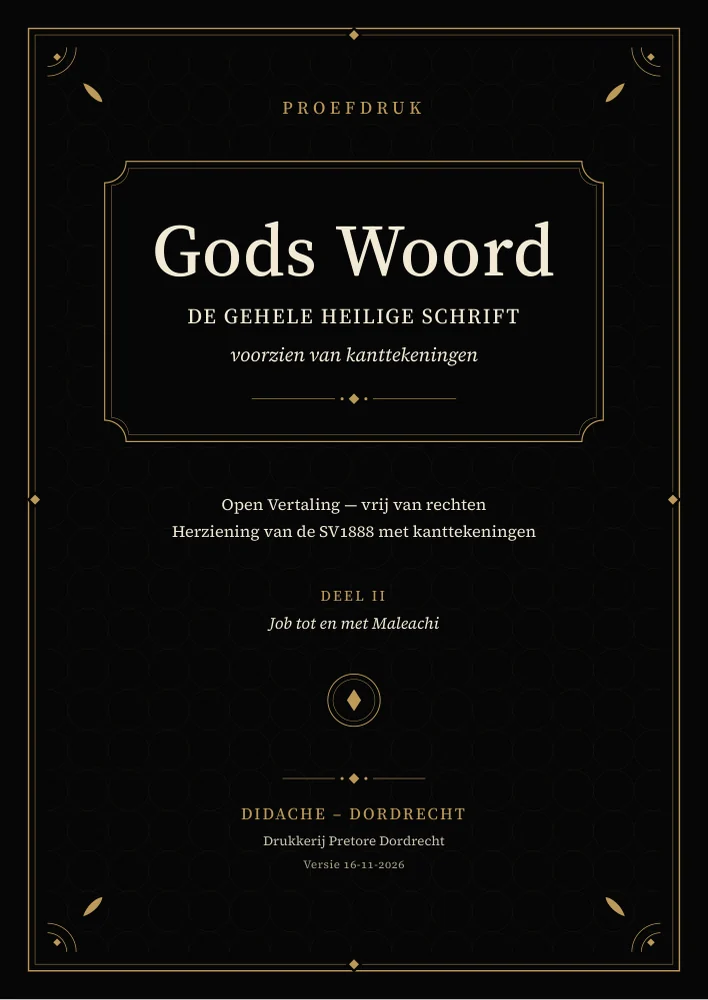
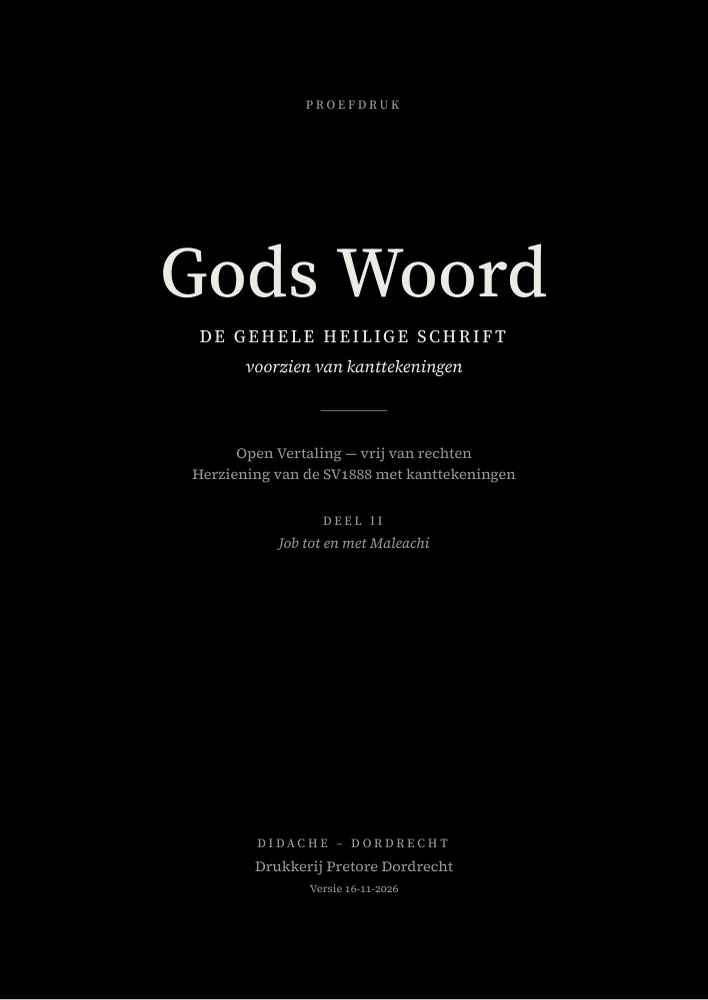
Voorblad minimalistisch en zwart, achterblad effen zwart
Geen blinddruk, lijstwerk, hoekversieringen of medaillon meer: een zwart
vlak met alleen de tekst en een korte haarlijn onder de titel. Het
achterblad is effen zwart. Nieuwe versielabels op PDF-links en
omslagbeelden.

diff --git a/kanttekeningen.html b/kanttekeningen.html
@@ -20,7 +20,7 @@
     <meta property="og:title" content="De Bijbel met kanttekeningen — Open Vertaling">
     <meta property="og:description" content="De Open Vertaling met de herziene kanttekeningen als PDF in drie delen, gezet met de noten onder de tekst op dezelfde bladzijde.">
     <meta property="og:url" content="https://openvertaling.nl/kanttekeningen.html">
-    <meta property="og:image" content="https://openvertaling.nl/images/kanttekeningen/deel-1.webp?v=20261116-proefdruk">
+    <meta property="og:image" content="https://openvertaling.nl/images/kanttekeningen/deel-1.webp?v=20261116-zwart">
     <meta name="twitter:card" content="summary_large_image">
 
     <link rel="stylesheet" href="css/fonts.css">
@@ -38,7 +38,7 @@
         <a class="kt-terug" href="downloads.html">← Alle downloads</a>
 
         <div class="kt-raster">
-            <img class="kt-omslag" id="kt-omslag" src="images/kanttekeningen/deel-1.webp?v=20261116-proefdruk" alt="Omslag van deel I" width="600" height="900">
+            <img class="kt-omslag" id="kt-omslag" src="images/kanttekeningen/deel-1.webp?v=20261116-zwart" alt="Omslag van deel I" width="600" height="900">
 
             <div class="kt-tekst">
                 <h1>De Bijbel met kanttekeningen</h1>
@@ -52,21 +52,21 @@
                         <div>
                             <input type="radio" name="deel" id="kt-deel-1" value="1" checked>
                             <label class="kt-kaart" for="kt-deel-1">
-                                <img src="images/kanttekeningen/deel-1.webp?v=20261116-proefdruk" alt="" width="46" height="69" decoding="async">
+                                <img src="images/kanttekeningen/deel-1.webp?v=20261116-zwart" alt="" width="46" height="69" decoding="async">
                                 <span><span class="kt-naam">Deel I</span><span class="kt-bereik">Genesis t/m Esther</span></span>
                             </label>
                         </div>
                         <div>
                             <input type="radio" name="deel" id="kt-deel-2" value="2">
                             <label class="kt-kaart" for="kt-deel-2">
-                                <img src="images/kanttekeningen/deel-2.webp?v=20261116-proefdruk" alt="" width="46" height="69" decoding="async">
+                                <img src="images/kanttekeningen/deel-2.webp?v=20261116-zwart" alt="" width="46" height="69" decoding="async">
                                 <span><span class="kt-naam">Deel II</span><span class="kt-bereik">Job t/m Maleachi</span></span>
                             </label>
                         </div>
                         <div>
                             <input type="radio" name="deel" id="kt-deel-3" value="3">
                             <label class="kt-kaart" for="kt-deel-3">
-                                <img src="images/kanttekeningen/deel-3.webp?v=20261116-proefdruk" alt="" width="46" height="69" decoding="async">
+                                <img src="images/kanttekeningen/deel-3.webp?v=20261116-zwart" alt="" width="46" height="69" decoding="async">
                                 <span><span class="kt-naam">Deel III</span><span class="kt-bereik">Mattheüs t/m Openbaring, met de apocriefe boeken</span></span>
                             </label>
                         </div>
@@ -79,15 +79,15 @@
                 </div>
 
                 <div class="kt-knoppen">
-                    <a class="kt-knop" id="kt-download" href="downloads/open-vertaling-kanttekeningen-deel-1.pdf?v=20261116-proefdruk" download>PDF downloaden</a>
-                    <a class="kt-knop kt-knop--rand" id="kt-open" href="downloads/open-vertaling-kanttekeningen-deel-1.pdf?v=20261116-proefdruk" target="_blank" rel="noopener">Openen in de browser</a>
+                    <a class="kt-knop" id="kt-download" href="downloads/open-vertaling-kanttekeningen-deel-1.pdf?v=20261116-zwart" download>PDF downloaden</a>
+                    <a class="kt-knop kt-knop--rand" id="kt-open" href="downloads/open-vertaling-kanttekeningen-deel-1.pdf?v=20261116-zwart" target="_blank" rel="noopener">Openen in de browser</a>
                 </div>
                 <p class="kt-omvang" id="kt-omvang"></p>
                 <noscript>
                     <p class="kt-omvang">
-                        <a href="downloads/open-vertaling-kanttekeningen-deel-1.pdf?v=20261116-proefdruk">Deel I</a> ·
-                        <a href="downloads/open-vertaling-kanttekeningen-deel-2.pdf?v=20261116-proefdruk">Deel II</a> ·
-                        <a href="downloads/open-vertaling-kanttekeningen-deel-3.pdf?v=20261116-proefdruk">Deel III</a>
+                        <a href="downloads/open-vertaling-kanttekeningen-deel-1.pdf?v=20261116-zwart">Deel I</a> ·
+                        <a href="downloads/open-vertaling-kanttekeningen-deel-2.pdf?v=20261116-zwart">Deel II</a> ·
+                        <a href="downloads/open-vertaling-kanttekeningen-deel-3.pdf?v=20261116-zwart">Deel III</a>
                     </p>
                 </noscript>
             </div>
@@ -151,7 +151,7 @@
     }
 
     function bestand(deel) {
-        return 'downloads/open-vertaling-kanttekeningen-deel-' + deel + '.pdf?v=20261116-proefdruk';
+        return 'downloads/open-vertaling-kanttekeningen-deel-' + deel + '.pdf?v=20261116-zwart';
     }
 
     function toon(deel) {
@@ -159,7 +159,7 @@
         var gegevens = verslag[deel] || {};
         var paginas = {};
         (gegevens.boeken || []).forEach(function (b) { paginas[b.naam] = b.pagina; });
-        document.getElementById('kt-omslag').src = 'images/kanttekeningen/deel-' + deel + '.webp?v=20261116-proefdruk';
+        document.getElementById('kt-omslag').src = 'images/kanttekeningen/deel-' + deel + '.webp?v=20261116-zwart';
         document.getElementById('kt-omslag').alt = 'Omslag van deel ' + ROMEINS[deel];
         document.getElementById('kt-download').href = bestand(deel);
         document.getElementById('kt-open').href = bestand(deel);

diff --git a/eenband.html b/eenband.html
@@ -9,11 +9,11 @@
 <link rel="stylesheet" href="css/fonts.css"><link rel="stylesheet" href="css/style.css"><link rel="stylesheet" href="css/ontwerp.css?v=20261108-eenband-2"><link rel="stylesheet" href="css/kanttekeningen.css">
 </head><body><nav id="topnav"></nav><script src="js/topnav.js"></script>
 <main class="kt"><a class="kt-terug" href="downloads.html">← Alle downloads</a>
-<div class="kt-raster"><img class="kt-omslag" src="images/kanttekeningen/eenband-a3.webp?v=20261116-proefdruk" alt="Zwart voorblad Gods Woord, één complete uitgave" width="707" height="1000">
+<div class="kt-raster"><img class="kt-omslag" src="images/kanttekeningen/eenband-a3.webp?v=20261116-zwart" alt="Zwart voorblad Gods Woord, één complete uitgave" width="707" height="1000">
 <div class="kt-tekst"><h1>Gods Woord, compleet in één band</h1><p class="kt-sub">Met kanttekeningen en illustraties van Jan van ’t Hoff</p>
 <p class="kt-oms">Alle 82 openbare Bijbelboeken, inclusief de apocriefe boeken, in één PDF. Met de herziene kanttekeningen onderaan de pagina en alle 126 werken uit de vastgelegde Gospelimages-catalogus van Jan van ’t Hoff.</p>
 <p>Bladformaat <strong>A3 · 297 × 420 mm</strong>, één formaat groter dan de driedelige A4-uitgave. De Bijbeltekst staat in twee kolommen en de kanttekeningen daaronder in drie. Gemarkeerde Godscitaten staan rood en cursief; de Godsnaam is HEERE.</p>
-<div class="kt-knoppen"><a class="kt-knop" href="downloads/gods-woord-kanttekeningen-geillustreerd-a3.pdf?v=20261116-proefdruk" download>Download de complete geïllustreerde PDF</a><a class="kt-knop kt-knop--rand" href="downloads/gods-woord-kanttekeningen-geillustreerd-a3.pdf?v=20261116-proefdruk" target="_blank" rel="noopener">Openen in de browser</a></div><p class="kt-omvang" id="eenband-omvang">Eén complete uitgave · A3 · 126 illustraties</p>
+<div class="kt-knoppen"><a class="kt-knop" href="downloads/gods-woord-kanttekeningen-geillustreerd-a3.pdf?v=20261116-zwart" download>Download de complete geïllustreerde PDF</a><a class="kt-knop kt-knop--rand" href="downloads/gods-woord-kanttekeningen-geillustreerd-a3.pdf?v=20261116-zwart" target="_blank" rel="noopener">Openen in de browser</a></div><p class="kt-omvang" id="eenband-omvang">Eén complete uitgave · A3 · 126 illustraties</p>
 <p>Ook beschikbaar: <a href="kanttekeningen.html">de driedelige uitgave met kanttekeningen op A4</a> en <a href="downloads/open-vertaling-volledig.pdf" download>de volledige Bijbel zonder kanttekeningen</a>.</p></div></div>
 <section class="kt-over"><h2>De schilderijen bij de tekst</h2><p>De afbeeldingen staan volledig en zonder uitsnede tussen de tekst: rechtstreeks tussen de verzen in de tekstkolommen, maximaal een halve pagina groot. De kanttekeningen sluiten direct aan op de tekst. Bij elk schilderij of elke tekening staan de titel en Bijbelplaats. De afbeelding bevat een klikbare link naar de oorspronkelijke toelichting. Naamsvermelding en gebruiksvoorwaarden staan voorin de PDF. Alle werken zijn opgenomen.</p>
 <figure class="kt-voorbeeld"><img src="images/gospelimages/reeks/7.jpg" width="1441" height="1080" loading="lazy" alt="Het Paradijs: Adam geeft de dieren namen, geschilderd door Jan van ’t Hoff"><figcaption>Het Paradijs — Genesis 2:20. © Jan van ’t Hoff · <a href="https://www.gospelimages.nl/schilderijen/7/het-paradijs">Gospelimages en toelichting</a>.</figcaption></figure>

diff --git a/index.html b/index.html
@@ -127,7 +127,7 @@
          passage uit data/johannes/1.json; zie js/startscherm.js. -->
     <main id="ov-start" class="ka-start" aria-labelledby="ka-start-titel">
         <section class="ka-nieuws ka-uitgave-nieuws" aria-labelledby="ka-uitgave-titel">
-            <a class="ka-uitgave-cover" href="kanttekeningen.html?v=20261108-voorblad" aria-label="Bekijk Gods Woord met titelblad"><img src="images/kanttekeningen/deel-1.webp?v=20261116-proefdruk" alt="Zwart titelblad Gods Woord met gouden rand" width="130" height="184"></a>
+            <a class="ka-uitgave-cover" href="kanttekeningen.html?v=20261108-voorblad" aria-label="Bekijk Gods Woord met titelblad"><img src="images/kanttekeningen/deel-1.webp?v=20261116-zwart" alt="Zwart titelblad Gods Woord met gouden rand" width="130" height="184"></a>
             <div class="ka-uitgave-bericht">
                 <p class="ka-eyebrow">Gods Woord · Lezen en delen</p>
                 <h2 id="ka-uitgave-titel">Een uitgave om te bewaren, een traktaat om te delen</h2>

diff --git a/scripts/build_kanttekeningen_pdf.py b/scripts/build_kanttekeningen_pdf.py
@@ -925,166 +925,68 @@ UITGEVER = 'Didache – Dordrecht'
 DRUKKER = 'Drukkerij Pretore Dordrecht'
 VERSIE = '16-11-2026'
 STAAT = 'PROEFDRUK'  # leeg maken voor de definitieve druk
-GOUD = (0.74, 0.60, 0.35)
-OMSLAG_ZWART = (0.025, 0.025, 0.025)
+OMSLAG_ZWART = (0.0, 0.0, 0.0)
 A4 = (595.28, 841.89)
 
 
-def _kleur(rgb, op='rg'):
-    return ' '.join(f'{c:.3f}' for c in rgb) + f' {op}'
-
-
-def _cirkel(cx, cy, r):
-    k = 0.5523 * r
-    return (f'{cx + r:.2f} {cy:.2f} m '
-            f'{cx + r:.2f} {cy + k:.2f} {cx + k:.2f} {cy + r:.2f} {cx:.2f} {cy + r:.2f} c '
-            f'{cx - k:.2f} {cy + r:.2f} {cx - r:.2f} {cy + k:.2f} {cx - r:.2f} {cy:.2f} c '
-            f'{cx - r:.2f} {cy - k:.2f} {cx - k:.2f} {cy - r:.2f} {cx:.2f} {cy - r:.2f} c '
-            f'{cx + k:.2f} {cy - r:.2f} {cx + r:.2f} {cy - k:.2f} {cx + r:.2f} {cy:.2f} c ')
-
-
-def _paneel(x0, y0, x1, y1, r):
-    """Rechthoek met holle hoeken, zoals een cartouche op een oude boekband."""
-    k = 0.5523 * r
-    return (f'{x0 + r:.2f} {y0:.2f} m {x1 - r:.2f} {y0:.2f} l '
-            f'{x1 - r:.2f} {y0 + k:.2f} {x1 - k:.2f} {y0 + r:.2f} {x1:.2f} {y0 + r:.2f} c '
-            f'{x1:.2f} {y1 - r:.2f} l '
-            f'{x1 - k:.2f} {y1 - r:.2f} {x1 - r:.2f} {y1 - k:.2f} {x1 - r:.2f} {y1:.2f} c '
-            f'{x0 + r:.2f} {y1:.2f} l '
-            f'{x0 + r:.2f} {y1 - k:.2f} {x0 + k:.2f} {y1 - r:.2f} {x0:.2f} {y1 - r:.2f} c '
-            f'{x0:.2f} {y0 + r:.2f} l '
-            f'{x0 + k:.2f} {y0 + r:.2f} {x0 + r:.2f} {y0 + k:.2f} {x0 + r:.2f} {y0:.2f} c h ')
-
-
-def _ruit(cx, cy, w, h):
-    return f'{cx:.2f} {cy + h:.2f} m {cx + w:.2f} {cy:.2f} l {cx:.2f} {cy - h:.2f} l {cx - w:.2f} {cy:.2f} l h '
-
-
-def _hoekornament(x, y, sx, sy):
-    """Een gouden krul met blad in een hoek; sx en sy geven de richting naar binnen."""
-    d = []
-    # Twee kwartbogen die in de hoek samenkomen, met een blaadje en een ruitje.
-    for r in (16, 24):
-        k = 0.5523 * r
-        d.append(f'{x + sx * r:.2f} {y:.2f} m '
-                 f'{x + sx * r:.2f} {y + sy * k:.2f} {x + sx * k:.2f} {y + sy * r:.2f} {x:.2f} {y + sy * r:.2f} c S ')
-    d.append(f'{x + sx * 30:.2f} {y + sy * 30:.2f} m '
-             f'{x + sx * 40:.2f} {y + sy * 33:.2f} {x + sx * 46:.2f} {y + sy * 42:.2f} {x + sx * 46:.2f} {y + sy * 46:.2f} c '
-             f'{x + sx * 42:.2f} {y + sy * 46:.2f} {x + sx * 33:.2f} {y + sy * 40:.2f} {x + sx * 30:.2f} {y + sy * 30:.2f} c f ')
-    d.append(_ruit(x + sx * 8, y + sy * 8, 3.2, 3.2) + 'f ')
-    return ''.join(d)
-
-
-def _boekband(uit, b, h):
-    """Zwart vlak met blinddruk van in elkaar grijpende cirkels en een gouden lijstwerk."""
-    uit.append(f'q {_kleur(OMSLAG_ZWART)} 0 0 {b:.2f} {h:.2f} re f Q\n')
-    # Blinddruk: overlappende cirkels geven een rustig patroon van vierpassen.
-    stap, straal = 34.0, 17.0
-    uit.append(f'q 40 40 {b - 80:.2f} {h - 80:.2f} re W n {_kleur((0.085, 0.078, 0.063), "RG")} 0.4 w\n')
-    y = 40.0
-    while y < h - 20:
-        x = 40.0
-        rij = []
-        while x < b - 20:
-            rij.append(_cirkel(x, y, straal))
-            x += stap
-        uit.append(''.join(rij) + 'S\n')
-        y += stap
-    uit.append('Q\n')
-    goud = f'{_kleur(GOUD, "RG")} {_kleur(GOUD)}'
-    uit.append(f'q {goud} 1.2 w 24 24 {b - 48:.2f} {h - 48:.2f} re S '
-               f'0.4 w 29.5 29.5 {b - 59:.2f} {h - 59:.2f} re S 0.6 w\n')
-    for x, y, sx, sy in ((40, 40, 1, 1), (b - 40, 40, -1, 1), (40, h - 40, 1, -1), (b - 40, h - 40, -1, -1)):
-        uit.append(_hoekornament(x, y, sx, sy) + '\n')
-    # Kleine ruiten midden op de zijden van het lijstwerk.
-    for x, y in ((b / 2, 29.5), (b / 2, h - 29.5), (29.5, h / 2), (b - 29.5, h / 2)):
-        uit.append(f'{_kleur(OMSLAG_ZWART)} {_ruit(x, y, 7, 7)}f {_kleur(GOUD)} {_ruit(x, y, 4.2, 4.2)}f\n')
-    uit.append('Q\n')
-
-
-def _sierlijn(uit, midden, y, breedte=86):
-    """Gouden haarlijnen met een ruit en twee stippen in het midden."""
-    goud = f'{_kleur(GOUD, "RG")} {_kleur(GOUD)}'
-    uit.append(f'q {goud} 0.5 w {midden - breedte:.2f} {y:.2f} m {midden - 16:.2f} {y:.2f} l S '
-               f'{midden + 16:.2f} {y:.2f} m {midden + breedte:.2f} {y:.2f} l S '
-               f'{_ruit(midden, y, 4.5, 4.5)}f {_cirkel(midden - 10, y, 1.3)}f {_cirkel(midden + 10, y, 1.3)}f Q\n')
-
-
-def _medaillon(uit, x, y, r):
-    """Rond gouden embleem met een staande ruit, op voor- en achterblad."""
-    goud = f'{_kleur(GOUD, "RG")} {_kleur(GOUD)}'
-    uit.append(f'q {_kleur(OMSLAG_ZWART)} {_cirkel(x, y, r)}f {goud} 0.8 w '
-               f'{_cirkel(x, y, r)}S 0.35 w {_cirkel(x, y, r * 0.8)}S '
-               f'{_ruit(x, y, r * 0.27, r * 0.42)}f Q\n')
+def _zwart_vlak(uit, b, h):
+    uit.append(f'q 0 0 0 rg 0 0 {b:.2f} {h:.2f} re f Q\n')
 
 
 def titelpagina(b, deel):
-    """Voorblad: zwarte boekband met gouden lijstwerk, op A4-maat (de A3-uitgave schaalt mee)."""
+    """Voorblad: zwart, alleen typografie en één haarlijn (de A3-uitgave schaalt mee)."""
     zetter, pdf = b.zetter, b.pdf
     uit = []
-    _boekband(uit, BREEDTE, HOOGTE)
+    _zwart_vlak(uit, BREEDTE, HOOGTE)
     midden = BREEDTE / 2
-    licht = (0.95, 0.92, 0.84)
+    wit = (0.93, 0.92, 0.89)
+    grijs = (0.62, 0.61, 0.58)
     kop = b.st['t_groot'].letter
     tekst_letter = b.st['t_tekst'].letter
     cursief_letter = b.st['t_cursief'].letter
-    titel = Stijl(kop, 62, spatie=0.6, afbreken=False, kleur=licht)
-    ondertitel = Stijl(kop, 18, spatie=1.4, afbreken=False, kleur=licht)
-    cursief = Stijl(cursief_letter, 16, afbreken=False, kleur=licht)
-    tekst = Stijl(tekst_letter, 13.5, kenmerken=(('onum', True),), afbreken=False, kleur=licht)
-    tekst_cursief = Stijl(cursief_letter, 13.5, afbreken=False, kleur=licht)
-    klein_goud = Stijl(kop, 12.5, spatie=2.0, afbreken=False, kleur=GOUD)
-    uitgever = Stijl(kop, 14, spatie=1.8, afbreken=False, kleur=GOUD)
-    versie = Stijl(tekst_letter, 9.5, kenmerken=(('onum', True),), spatie=0.4, afbreken=False,
-                   kleur=(0.66, 0.62, 0.54))
-
-    # Cartouche rond de titel; het zwart dekt de blinddruk zodat de titel rustig staat.
-    x0, x1, y0, y1 = 88.0, BREEDTE - 88.0, HOOGTE - 372.0, HOOGTE - 136.0
-    goud = f'{_kleur(GOUD, "RG")} {_kleur(GOUD)}'
-    uit.append(f'q {_kleur(OMSLAG_ZWART)} {_paneel(x0, y0, x1, y1, 18)}f '
-               f'{goud} 1.0 w {_paneel(x0, y0, x1, y1, 18)}S '
-               f'0.35 w {_paneel(x0 + 6, y0 + 6, x1 - 6, y1 - 6, 14)}S Q\n')
+    titel = Stijl(kop, 60, spatie=0.4, afbreken=False, kleur=wit)
+    ondertitel = Stijl(kop, 15, spatie=2.2, afbreken=False, kleur=wit)
+    cursief = Stijl(cursief_letter, 14, afbreken=False, kleur=wit)
+    tekst = Stijl(tekst_letter, 12, kenmerken=(('onum', True),), afbreken=False, kleur=grijs)
+    tekst_cursief = Stijl(cursief_letter, 12, afbreken=False, kleur=grijs)
+    klein = Stijl(kop, 10.5, spatie=2.4, afbreken=False, kleur=grijs)
 
     def regel(t, stijl, y):
         r = zetter.los([(t, stijl)])
         teken_regel(r, midden - r.breedte / 2, y, uit)
 
-    regel('Gods Woord', titel, HOOGTE - 232)
-    regel('DE GEHELE HEILIGE SCHRIFT', ondertitel, HOOGTE - 272)
-    regel('voorzien van kanttekeningen', cursief, HOOGTE - 304)
-    _sierlijn(uit, midden, HOOGTE - 336)
+    if STAAT:
+        regel(STAAT, klein, HOOGTE - 92)
+    regel('Gods Woord', titel, HOOGTE - 250)
+    regel('DE GEHELE HEILIGE SCHRIFT', ondertitel, HOOGTE - 288)
+    regel('voorzien van kanttekeningen', cursief, HOOGTE - 314)
+    uit.append(f'q {wit[0]:.3f} {wit[1]:.3f} {wit[2]:.3f} RG 0.4 w {midden - 28:.2f} {HOOGTE - 346:.2f} m '
+               f'{midden + 28:.2f} {HOOGTE - 346:.2f} l S Q\n')
 
-    regel('Open Vertaling — vrij van rechten', tekst, HOOGTE - 430)
-    regel('Herziening van de SV1888 met kanttekeningen', tekst, HOOGTE - 452)
+    regel('Open Vertaling — vrij van rechten', tekst, HOOGTE - 386)
+    regel('Herziening van de SV1888 met kanttekeningen', tekst, HOOGTE - 404)
     if deel == 0:
-        regel('Voorzien van de schilderijen van Jan van ’t Hoff', tekst_cursief, HOOGTE - 496)
+        regel('Voorzien van de schilderijen van Jan van ’t Hoff', tekst_cursief, HOOGTE - 436)
     else:
-        regel(f'DEEL {romeins(deel)}', klein_goud, HOOGTE - 506)
+        regel(f'DEEL {romeins(deel)}', klein, HOOGTE - 442)
         # Deel III heeft een lange titel; geef de apocriefe boeken een eigen regel.
         titelregels = DELEN[deel]['titel'].replace(', met de ', '\nmet de ').split('\n')
         for i, t in enumerate(titelregels):
-            regel(t, tekst_cursief, HOOGTE - 530 - i * 20)
+            regel(t, tekst_cursief, HOOGTE - 462 - i * 18)
 
-    if STAAT:
-        regel(STAAT, Stijl(kop, 15, spatie=4.0, afbreken=False, kleur=GOUD), HOOGTE - 96)
-    _medaillon(uit, midden, 252, 22)
-    _sierlijn(uit, midden, 186, 60)
-    regel(UITGEVER.upper(), uitgever, 152)
-    regel(DRUKKER, Stijl(tekst_letter, 11, afbreken=False, kleur=(0.80, 0.77, 0.69)), 130)
-    regel(f'Versie {VERSIE}', versie, 110)
+    regel(UITGEVER.upper(), klein, 128)
+    regel(DRUKKER, tekst, 108)
+    regel(f'Versie {VERSIE}', Stijl(tekst_letter, 9, kenmerken=(('onum', True),), afbreken=False, kleur=grijs), 90)
     pdf.pagina(''.join(uit))
 
 
 def achterblad(b):
-    """Zwart achterblad in dezelfde band, altijd op een even (linker) bladzijde."""
+    """Zwart achterblad, altijd op een even (linker) bladzijde."""
     pdf = b.pdf
     if len(pdf.paginas) % 2 == 0:
         pdf.pagina('')
-    sx, sy = BREEDTE / A4[0], HOOGTE / A4[1]
-    uit = [f'q {sx:.6f} 0 0 {sy:.6f} 0 0 cm\n']
-    _boekband(uit, *A4)
-    _medaillon(uit, A4[0] / 2, A4[1] / 2, 26)
-    uit.append('Q\n')
+    uit = []
+    _zwart_vlak(uit, BREEDTE, HOOGTE)
     pdf.pagina(''.join(uit))
 
 
